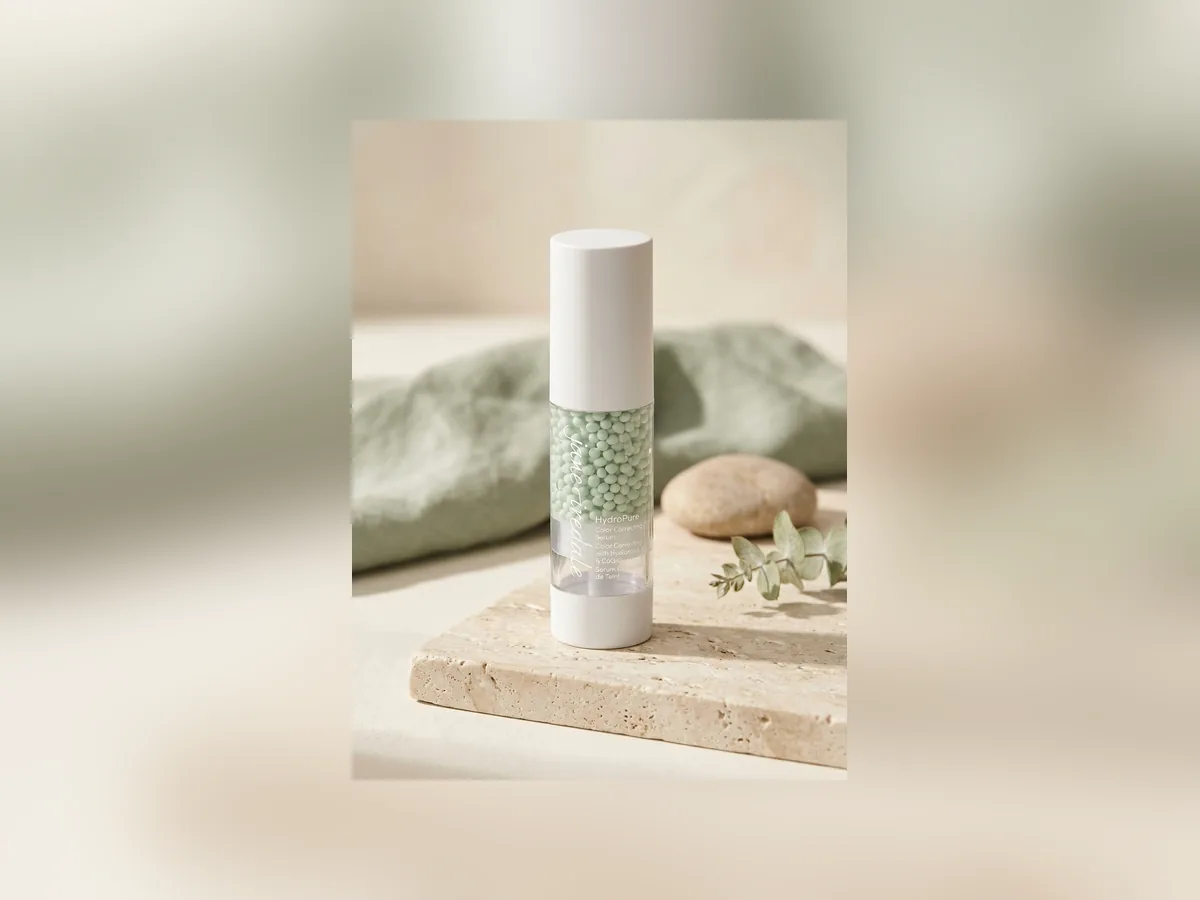
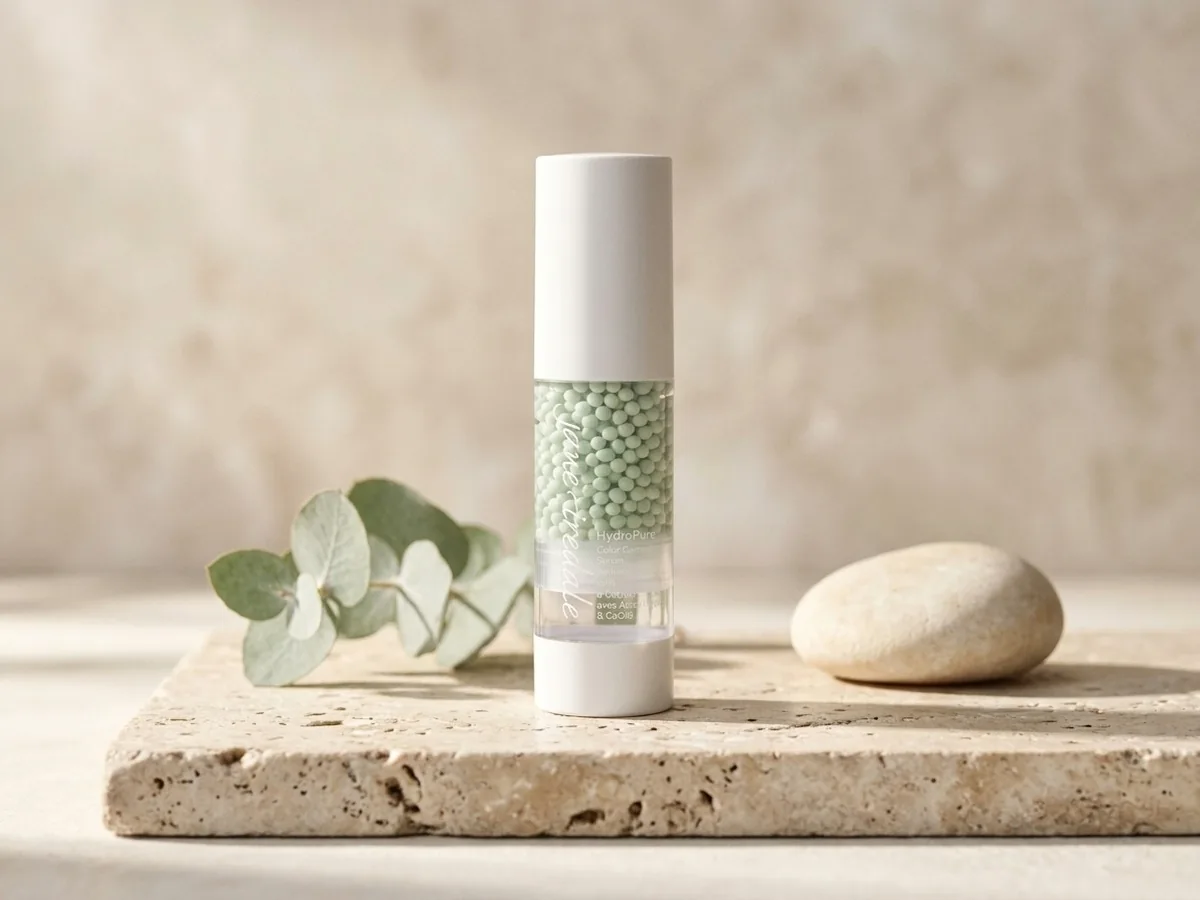
jane iredale naslovne slike: izvorni web format 4:3 bez proširivanja
Claude-Session: https://claude.ai/code/session_01RFRWsjhvJiBSdDWV7cX2S9

diff --git a/make_product_covers.py b/make_product_covers.py
@@ -31,8 +31,8 @@ COVERS = {
     "rhode-pocket-blush-tan-line-recenzija": ("rhode-blush.jpg", "cover"),
     "rhode-peptide-lip-shape-recenzija": ("rhode-lip.jpg", "fit"),
     "la-roche-posay-cicaplast-baume-b5-recenzija": ("cicaplast.jpg", "fit"),
-    "jane-iredale-hydropure-tinted-serum-recenzija": ("jane-iredale-tinted.jpg", "blur"),
-    "jane-iredale-hydropure-color-correcting-serum-recenzija": ("jane-iredale-cc.jpg", "blur"),
+    "jane-iredale-hydropure-tinted-serum-recenzija": ("jane-iredale-tinted-web.jpg", "cover"),
+    "jane-iredale-hydropure-color-correcting-serum-recenzija": ("jane-iredale-cc-web.jpg", "cover"),
 }
 
 
